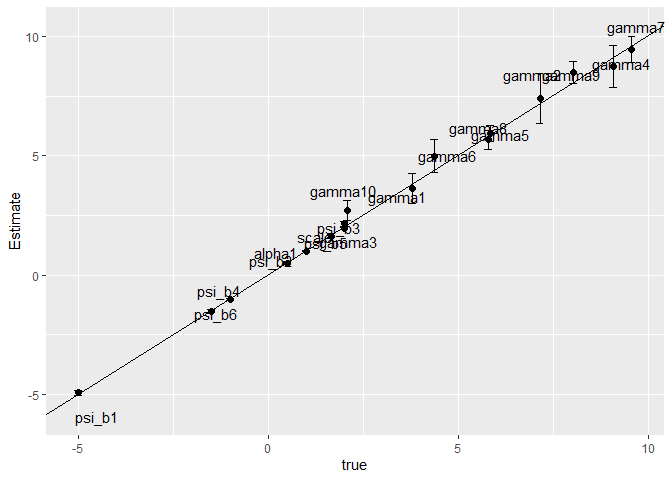
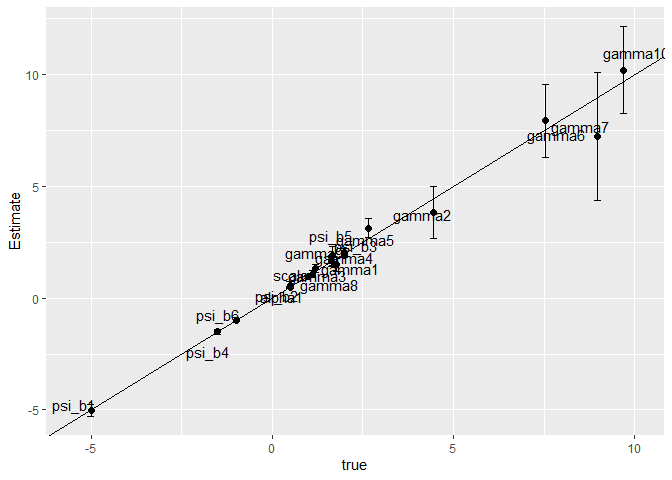
updated R Journal version

diff --git a/README.md b/README.md
@@ -89,7 +89,7 @@ results.
 library(pacman)
 p_load(tidyverse, rmdcev)
 model <- "gamma"
-nobs <- 10000
+nobs <- 2000
 nalts <- 10
 sim.data <- GenerateMDCEVData(model = model, nobs = nobs, nalts = nalts)
 #> Sorting data by id.var then alt...
@@ -107,20 +107,18 @@ mdcev_est <- mdcev(~ b1 + b2 + b3 + b4 + b5 + b6,
                    model = model,
                    algorithm = "MLE")
 #> Using MLE to estimate KT model
-#> Chain 1: Initial log joint probability = -470237
+#> Chain 1: Initial log joint probability = -60303.6
 #> Chain 1:     Iter      log prob        ||dx||      ||grad||       alpha      alpha0  # evals  Notes 
 #> Chain 1: Error evaluating model log probability: Non-finite gradient.
 #> Error evaluating model log probability: Non-finite gradient.
 #> 
-#> Chain 1:       19       -155997     0.0626126       2703.73       0.248       0.248       32   
+#> Chain 1:       19      -22587.6      0.147465        239.08           1           1       29   
 #> Chain 1:     Iter      log prob        ||dx||      ||grad||       alpha      alpha0  # evals  Notes 
-#> Chain 1:       39       -154683      0.155554        465.91           1           1       54   
+#> Chain 1:       39      -22417.9      0.105684       88.3198           1           1       52   
 #> Chain 1:     Iter      log prob        ||dx||      ||grad||       alpha      alpha0  # evals  Notes 
-#> Chain 1:       59       -154652      0.020183       48.4093      0.9566      0.9566       75   
+#> Chain 1:       59      -22414.6    0.00557064        6.4863      0.4163           1       75   
 #> Chain 1:     Iter      log prob        ||dx||      ||grad||       alpha      alpha0  # evals  Notes 
-#> Chain 1:       79       -154651    0.00202988       8.74596           1           1       99   
-#> Chain 1:     Iter      log prob        ||dx||      ||grad||       alpha      alpha0  # evals  Notes 
-#> Chain 1:       93       -154651   0.000157087      0.664501      0.2613      0.9589      118   
+#> Chain 1:       77      -22414.6   0.000197231      0.596081       0.341      0.9852      100   
 #> Chain 1: Optimization terminated normally: 
 #> Chain 1:   Convergence detected: relative gradient magnitude is below tolerance
 ```
@@ -133,40 +131,40 @@ summary(mdcev_est)
 #> Estimation method                : MLE
 #> Model type                       : gamma specification
 #> Number of classes                : 1
-#> Number of individuals            : 10000
+#> Number of individuals            : 2000
 #> Number of non-numeraire alts     : 10
 #> Estimated parameters             : 18
-#> LL                               : -154651.2
-#> AIC                              : 309338.4
-#> BIC                              : 309468.2
+#> LL                               : -22414.6
+#> AIC                              : 44865.21
+#> BIC                              : 44966.02
 #> Standard errors calculated using : Delta method
 #> Exit of MLE                      : successful convergence
-#> Time taken (hh:mm:ss)            : 00:00:17.19
+#> Time taken (hh:mm:ss)            : 00:00:2.58
 #> 
 #> Average consumption of non-numeraire alternatives:
 #>     1     2     3     4     5     6     7     8     9    10 
-#>  0.54  1.98 21.62  4.26 44.29  1.48 25.87  9.11 32.02  0.60 
+#>  1.11  1.65  9.71  1.06 14.70  5.16  1.31  5.32  5.64  9.06 
 #> 
 #> Parameter estimates --------------------------------  
 #>          Estimate Std.err z.stat
-#> psi_b1     -4.923   0.059 -83.43
-#> psi_b2      0.509   0.030  16.97
-#> psi_b3      2.144   0.054  39.71
-#> psi_b4     -1.508   0.026 -57.99
-#> psi_b5      1.966   0.024  81.93
-#> psi_b6     -1.012   0.024 -42.18
-#> gamma_1     3.623   0.318  11.39
-#> gamma_2     7.407   0.532  13.92
-#> gamma_3     1.637   0.044  37.21
-#> gamma_4     8.749   0.450  19.44
-#> gamma_5     5.938   0.166  35.77
-#> gamma_6     4.988   0.348  14.33
-#> gamma_7     9.460   0.280  33.79
-#> gamma_8     5.674   0.200  28.37
-#> gamma_9     8.487   0.245  34.64
-#> gamma_10    2.707   0.206  13.14
-#> alpha_1     0.506   0.005 101.25
-#> scale       1.000   0.007 142.90
+#> psi_b1     -5.017   0.129 -38.90
+#> psi_b2      0.585   0.080   7.31
+#> psi_b3      2.067   0.071  29.11
+#> psi_b4     -1.496   0.059 -25.36
+#> psi_b5      1.921   0.059  32.56
+#> psi_b6     -0.988   0.056 -17.64
+#> gamma_1     1.890   0.225   8.40
+#> gamma_2     3.831   0.586   6.54
+#> gamma_3     1.074   0.074  14.51
+#> gamma_4     1.506   0.168   8.96
+#> gamma_5     3.137   0.218  14.39
+#> gamma_6     7.937   0.838   9.47
+#> gamma_7     7.234   1.453   4.98
+#> gamma_8     1.314   0.093  14.13
+#> gamma_9     1.676   0.123  13.62
+#> gamma_10   10.196   0.995  10.25
+#> alpha_1     0.499   0.010  49.89
+#> scale       0.994   0.019  52.33
 #> Note: All non-numeraire alpha's fixed to 0.
 ```
 
@@ -181,24 +179,24 @@ coefs <- as_tibble(sim.data$parms_true) %>%
 
 head(coefs, 200)
 #>      parms      true Estimate Std.err z.stat    cl_lo    cl_hi
-#> 1   psi_b1 -5.000000   -4.923   0.059 -83.43 -5.03864 -4.80736
-#> 2   psi_b2  0.500000    0.509   0.030  16.97  0.45020  0.56780
-#> 3   psi_b3  2.000000    2.144   0.054  39.71  2.03816  2.24984
-#> 4   psi_b4 -1.500000   -1.508   0.026 -57.99 -1.55896 -1.45704
-#> 5   psi_b5  2.000000    1.966   0.024  81.93  1.91896  2.01304
-#> 6   psi_b6 -1.000000   -1.012   0.024 -42.18 -1.05904 -0.96496
-#> 7   gamma1  3.790078    3.623   0.318  11.39  2.99972  4.24628
-#> 8   gamma2  7.156351    7.407   0.532  13.92  6.36428  8.44972
-#> 9   gamma3  1.650154    1.637   0.044  37.21  1.55076  1.72324
-#> 10  gamma4  9.089130    8.749   0.450  19.44  7.86700  9.63100
-#> 11  gamma5  5.855912    5.938   0.166  35.77  5.61264  6.26336
-#> 12  gamma6  4.372138    4.988   0.348  14.33  4.30592  5.67008
-#> 13  gamma7  9.572931    9.460   0.280  33.79  8.91120 10.00880
-#> 14  gamma8  5.798455    5.674   0.200  28.37  5.28200  6.06600
-#> 15  gamma9  8.031057    8.487   0.245  34.64  8.00680  8.96720
-#> 16 gamma10  2.088844    2.707   0.206  13.14  2.30324  3.11076
-#> 17  alpha1  0.500000    0.506   0.005 101.25  0.49620  0.51580
-#> 18   scale  1.000000    1.000   0.007 142.90  0.98628  1.01372
+#> 1   psi_b1 -5.000000   -5.017   0.129 -38.90 -5.26984 -4.76416
+#> 2   psi_b2  0.500000    0.585   0.080   7.31  0.42820  0.74180
+#> 3   psi_b3  2.000000    2.067   0.071  29.11  1.92784  2.20616
+#> 4   psi_b4 -1.500000   -1.496   0.059 -25.36 -1.61164 -1.38036
+#> 5   psi_b5  2.000000    1.921   0.059  32.56  1.80536  2.03664
+#> 6   psi_b6 -1.000000   -0.988   0.056 -17.64 -1.09776 -0.87824
+#> 7   gamma1  1.672031    1.890   0.225   8.40  1.44900  2.33100
+#> 8   gamma2  4.454715    3.831   0.586   6.54  2.68244  4.97956
+#> 9   gamma3  1.121848    1.074   0.074  14.51  0.92896  1.21904
+#> 10  gamma4  1.779145    1.506   0.168   8.96  1.17672  1.83528
+#> 11  gamma5  2.666243    3.137   0.218  14.39  2.70972  3.56428
+#> 12  gamma6  7.543130    7.937   0.838   9.47  6.29452  9.57948
+#> 13  gamma7  8.978440    7.234   1.453   4.98  4.38612 10.08188
+#> 14  gamma8  1.198326    1.314   0.093  14.13  1.13172  1.49628
+#> 15  gamma9  1.641405    1.676   0.123  13.62  1.43492  1.91708
+#> 16 gamma10  9.692787   10.196   0.995  10.25  8.24580 12.14620
+#> 17  alpha1  0.500000    0.499   0.010  49.89  0.47940  0.51860
+#> 18   scale  1.000000    0.994   0.019  52.33  0.95676  1.03124
 ```
 
 Compare outputs using a figure
@@ -238,11 +236,11 @@ wtp <- mdcev.sim(df_sim$df_indiv,
                  sim_type = "welfare")
 #> Using general approach in simulation...
 #> 
-#> 3.00e+05simulations finished in1.49minutes.(3366per second)
+#> 6.00e+04simulations finished in0.28minutes.(3636per second)
 summary(wtp)
 #> # A tibble: 2 x 5
-#>   policy      mean std.dev `ci_lo2.5%` `ci_hi97.5%`
-#>   <chr>      <dbl>   <dbl>       <dbl>        <dbl>
-#> 1 policy1 9.22e-12      NA    9.22e-12     9.22e-12
-#> 2 policy2 9.22e-12      NA    9.22e-12     9.22e-12
+#>   policy       mean std.dev `ci_lo2.5%` `ci_hi97.5%`
+#>   <chr>       <dbl>   <dbl>       <dbl>        <dbl>
+#> 1 policy1 -1.77e-10      NA   -1.77e-10    -1.77e-10
+#> 2 policy2 -1.77e-10      NA   -1.77e-10    -1.77e-10
 ```
